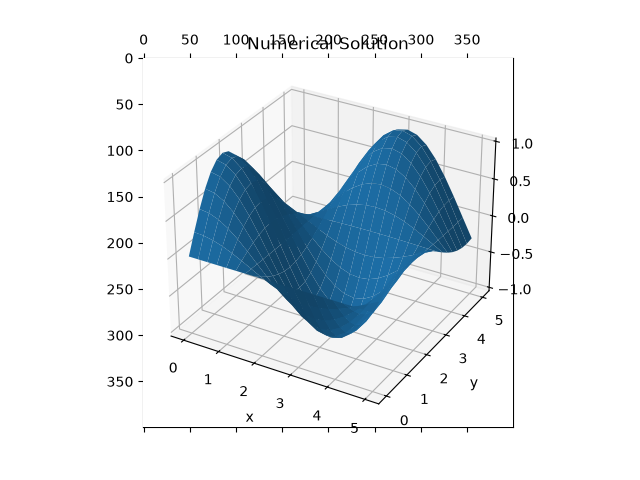
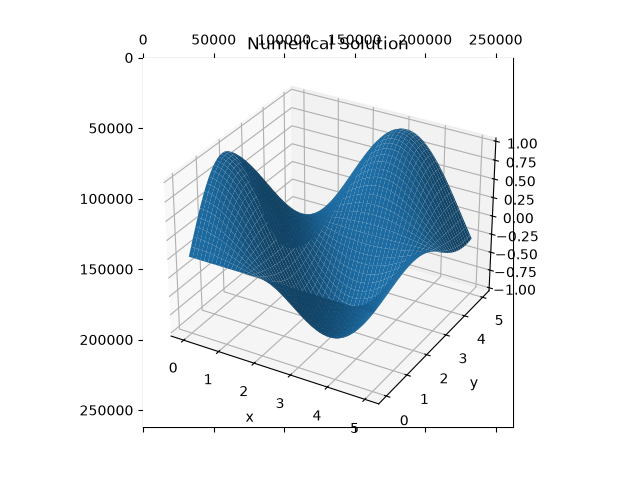
A couple last tweaks I wanted before office hours.

diff --git a/Scripts/problem_0_4.py b/Scripts/problem_0_4.py
@@ -106,7 +106,7 @@ def rel_error(a, b, n):
 def main():
     a = 0
     b = 5
-    n = 5
+    n = 512
 
     # Get the numerical solution
     xx,yy,u_approx = finiteDifferencePoisson(a, b, n, spy=True, plot_name = "Images\\problem4_spy.png")
@@ -130,6 +130,7 @@ def main():
     ax2.set_title("Exact Solution")
     plt.savefig("Images\\problem4_2.png")
 
+    # Plot the error for trouble shooting
     erplt = plt.figure(6)
     erax = plt.axes(projection='3d')
     erax.plot_surface(xx,yy,np.abs(u_approx-u_exact))
@@ -148,10 +149,11 @@ def main():
 
     fig3 = plt.figure(3)
     ax3 = plt.axes()
-    plt.plot(meshes, L_2, label = "L_2")
-#    plt.loglog(meshes, L_inf, label = "L_inf")
-    ax3.set_xscale('log')
-    ax3.set_yscale('log')
+#   plt.plot(meshes, L_2, label = "L_2")
+    plt.loglog(meshes, L_2, label = "L_2")
+#   plt.loglog(meshes, L_inf, label = "L_inf")
+#   ax3.set_xscale('log')
+#   ax3.set_yscale('log')
     plt.legend()
     plt.savefig('Images\\problem4_3.png')
 
